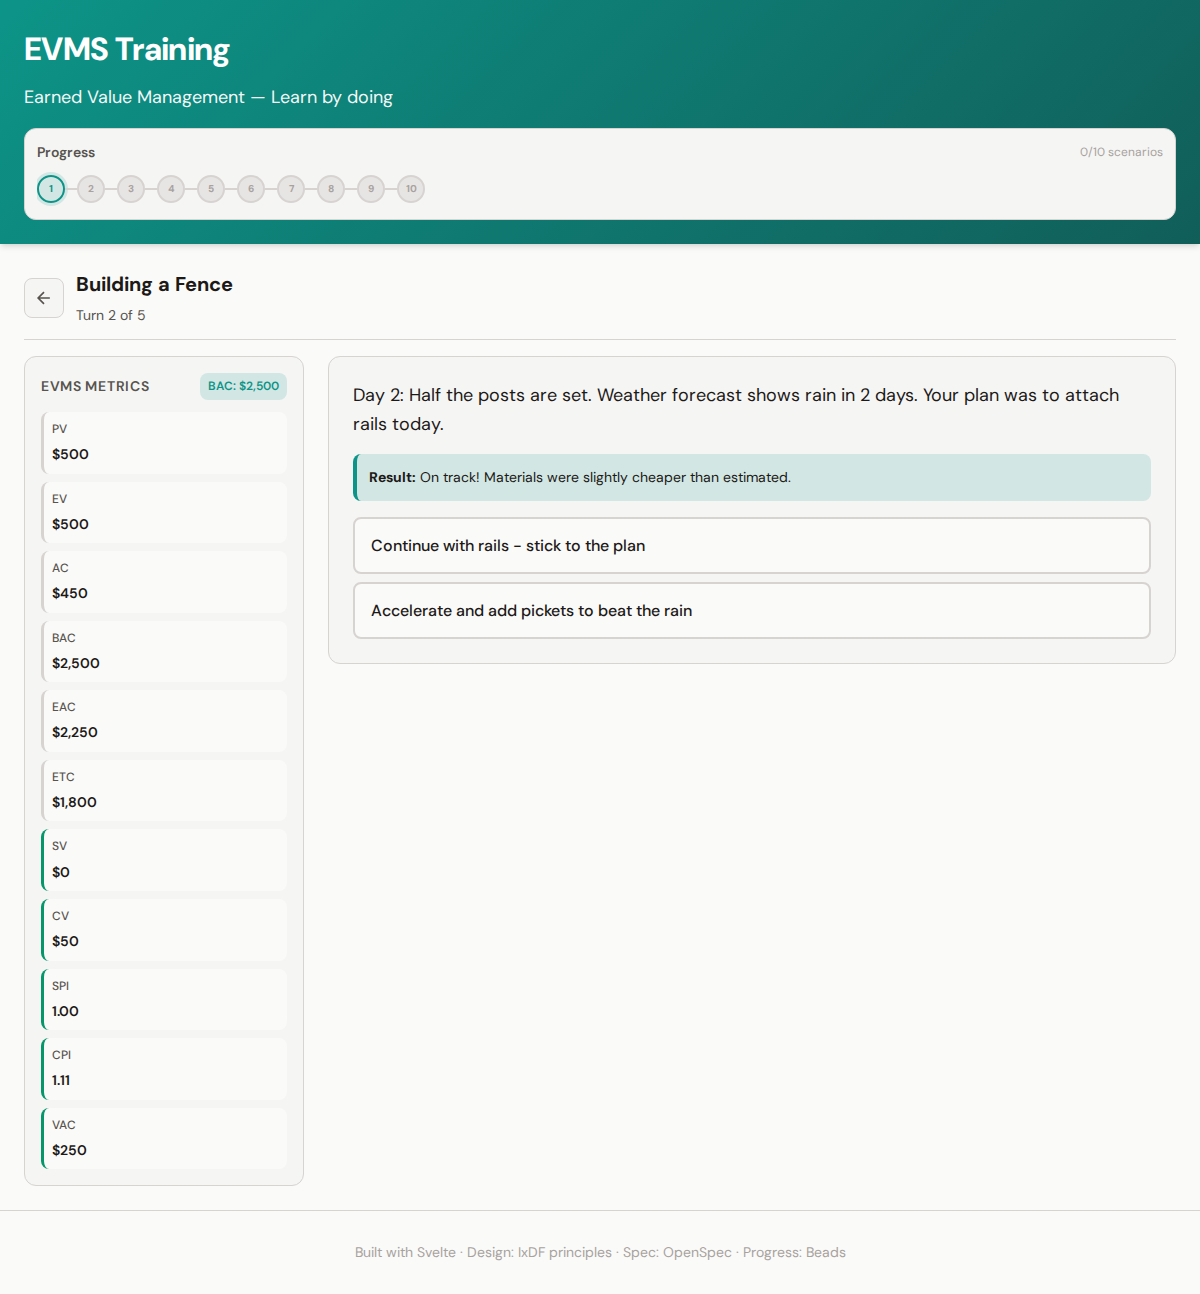
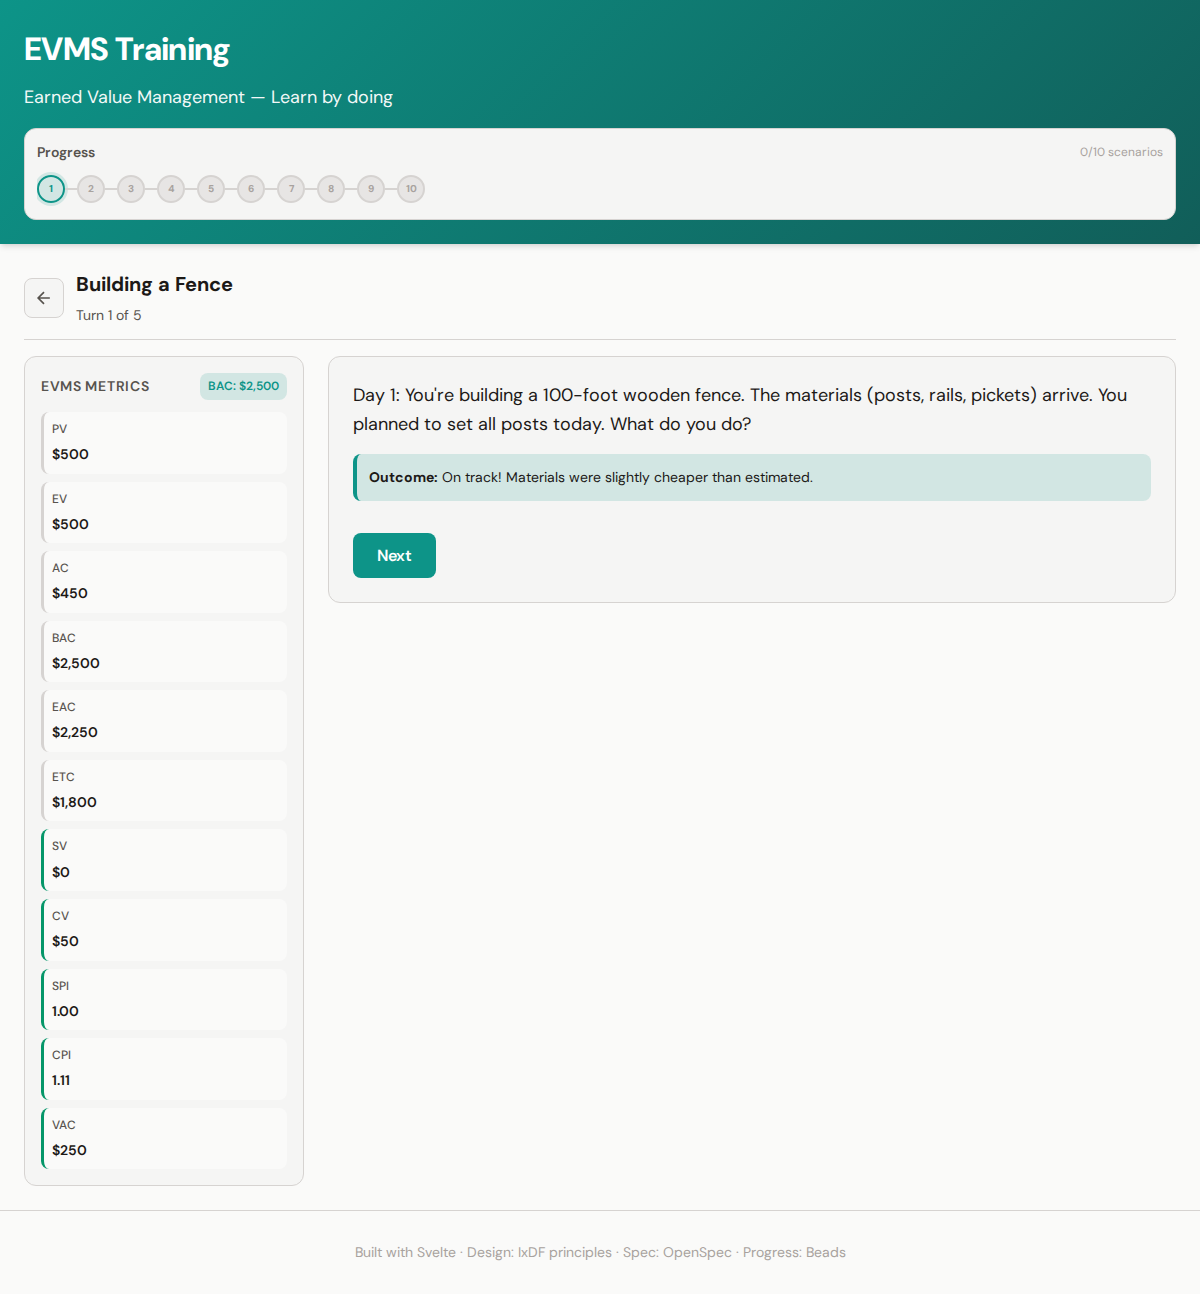
feat(gameplay): show outcome after choice, then Next to advance
Split game flow into selectChoice (apply EVMS deltas, show feedback)
and advanceAfterFeedback (clear feedback, increment turn). Scenario
completion and bead unlock run when leaving the final feedback step.
Persist awaitingAdvance for refresh-safe mid-turn state. Update
Playwright flows and screenshot capture for the two-step interaction.

Changed region(s): [[0.2775, 0.2782, 0.925, 0.4946], [0.0925, 0.2164, 0.1233, 0.2473]]

diff --git a/evms-training/tests/gameplay.spec.js b/evms-training/tests/gameplay.spec.js
@@ -69,20 +69,19 @@ test.describe('EVMS Training - Gameplay', () => {
 		await expect(page.getByRole('button', { name: /Rush through post setting/i })).toBeVisible();
 	});
 
-	test('clicking choice advances to next turn and shows feedback', async ({ page }) => {
+	test('after choice, outcome and Next appear; Next advances turn', async ({ page }) => {
 		await page.getByRole('button', { name: /Scenario: Building a Fence/i }).click();
 
-		// Click first choice
 		await page.getByRole('button', { name: /Set posts as planned/i }).click();
 
-		// Should show feedback
-		await expect(page.getByText(/Result:/)).toBeVisible();
+		await expect(page.getByText(/Outcome:/)).toBeVisible();
 		await expect(page.getByText(/On track!/)).toBeVisible();
+		await expect(page.getByText(/Turn 1 of 5/)).toBeVisible();
+		await expect(page.getByText(/Day 2:/)).not.toBeVisible();
 
-		// Turn should advance
+		await page.getByRole('button', { name: /Continue to next decision|Next/i }).click();
+
 		await expect(page.getByText(/Turn 2 of 5/)).toBeVisible();
-
-		// New narrative
 		await expect(page.getByText(/Day 2:/)).toBeVisible();
 	});
 
@@ -92,7 +91,7 @@ test.describe('EVMS Training - Gameplay', () => {
 		// Initially metrics may show $0 or values after first render
 		await expect(page.getByText('EVMS Metrics')).toBeVisible();
 
-		// Make a choice
+		// Make a choice (metrics update immediately)
 		await page.getByRole('button', { name: /Set posts as planned/i }).click();
 
 		// Metrics should show currency values (PV, EV, AC)
@@ -113,11 +112,15 @@ test.describe('EVMS Training - Gameplay', () => {
 	test('completing scenario 1 shows completion screen', async ({ page }) => {
 		await page.getByRole('button', { name: /Scenario: Building a Fence/i }).click();
 
-		// Complete all 5 turns
+		// Complete all 5 turns (choice then Next each turn)
 		for (let i = 0; i < 5; i++) {
-			// Click first available choice (usually the safer option)
-			const choiceBtn = page.getByRole('button', { name: /Set posts as planned|Continue with rails|Work in light rain|Double down|Use standard stain/i }).first();
+			const choiceBtn = page
+				.getByRole('button', {
+					name: /Set posts as planned|Continue with rails|Work in light rain|Double down|Use standard stain/i
+				})
+				.first();
 			await choiceBtn.click();
+			await page.getByRole('button', { name: /Continue to next decision|Next/i }).click();
 		}
 
 		// Should show scenario complete
@@ -129,11 +132,10 @@ test.describe('EVMS Training - Gameplay', () => {
 	test('completed scenario unlocks next and updates beads', async ({ page }) => {
 		await page.getByRole('button', { name: /Scenario: Building a Fence/i }).click();
 
-		// Complete scenario 1 - 5 turns
+		// Complete scenario 1 - 5 turns (choice + Next each)
 		for (let i = 0; i < 5; i++) {
-			const choiceBtns = page.locator('.choice-btn');
-			await choiceBtns.first().click();
-			// Wait for next turn or completion
+			await page.locator('.choice-btn').first().click();
+			await page.getByRole('button', { name: /Continue to next decision|Next/i }).click();
 			await page.waitForTimeout(300);
 		}
 
@@ -152,6 +154,7 @@ test.describe('EVMS Training - Gameplay', () => {
 		await page.getByRole('button', { name: /Scenario: Building a Fence/i }).click();
 		for (let i = 0; i < 5; i++) {
 			await page.locator('.choice-btn').first().click();
+			await page.getByRole('button', { name: /Continue to next decision|Next/i }).click();
 			await page.waitForTimeout(200);
 		}
 		await page.getByRole('button', { name: /Return to Scenarios/i }).click();

diff --git a/evms-training/src/lib/stores/gameStore.svelte.js b/evms-training/src/lib/stores/gameStore.svelte.js
@@ -34,6 +34,7 @@ export function createGameStore() {
 	let ac = $state(0);
 	let bac = $state(0);
 	let feedback = $state(null);
+	let awaitingAdvance = $state(false);
 	let choiceHistory = $state([]);
 
 	const saved = loadFromStorage();
@@ -44,7 +45,23 @@ export function createGameStore() {
 		ev = saved.ev ?? 0;
 		ac = saved.ac ?? 0;
 		bac = saved.bac ?? 0;
+		feedback = saved.feedback ?? null;
+		awaitingAdvance = saved.awaitingAdvance ?? false;
 		choiceHistory = saved.choiceHistory ?? [];
+	}
+
+	function persist() {
+		saveToStorage({
+			scenarioId,
+			turnIndex,
+			pv,
+			ev,
+			ac,
+			bac,
+			feedback,
+			awaitingAdvance,
+			choiceHistory
+		});
 	}
 
 	function initScenario(scenario) {
@@ -55,18 +72,28 @@ export function createGameStore() {
 		ac = 0;
 		bac = scenario.bac;
 		feedback = null;
+		awaitingAdvance = false;
 		choiceHistory = [];
-		saveToStorage({ scenarioId, turnIndex, pv, ev, ac, bac, choiceHistory });
+		persist();
 	}
 
-	function applyChoice(choice) {
+	function selectChoice(choice) {
+		if (awaitingAdvance) return;
 		pv += choice.pvDelta ?? 0;
 		ev += choice.evDelta ?? 0;
 		ac += choice.acDelta ?? 0;
 		feedback = choice.feedback ?? null;
 		choiceHistory = [...choiceHistory, { text: choice.text, turnIndex }];
+		awaitingAdvance = true;
+		persist();
+	}
+
+	function advanceAfterFeedback() {
+		if (!awaitingAdvance) return;
+		feedback = null;
+		awaitingAdvance = false;
 		turnIndex += 1;
-		saveToStorage({ scenarioId, turnIndex, pv, ev, ac, bac, choiceHistory });
+		persist();
 	}
 
 	function resetGame() {
@@ -77,6 +104,7 @@ export function createGameStore() {
 		ac = 0;
 		bac = 0;
 		feedback = null;
+		awaitingAdvance = false;
 		choiceHistory = [];
 		localStorage.removeItem(STORAGE_KEY);
 	}
@@ -105,6 +133,9 @@ export function createGameStore() {
 		get feedback() {
 			return feedback;
 		},
+		get awaitingAdvance() {
+			return awaitingAdvance;
+		},
 		get choiceHistory() {
 			return choiceHistory;
 		},
@@ -115,7 +146,8 @@ export function createGameStore() {
 			return scenarioId != null && turnIndex > 0;
 		},
 		initScenario,
-		applyChoice,
+		selectChoice,
+		advanceAfterFeedback,
 		resetGame,
 		loadGame: loadFromStorage
 	};

diff --git a/evms-training/src/components/ScenarioPlay.svelte b/evms-training/src/components/ScenarioPlay.svelte
@@ -9,8 +9,12 @@
 	const isLastTurn = $derived(scenario && gameStore.turnIndex >= scenario.turns.length);
 
 	function handleChoice(choice) {
+		gameStore.selectChoice(choice);
+	}
+
+	function handleNext() {
 		const wasLastTurn = gameStore.turnIndex >= scenario.turns.length - 1;
-		gameStore.applyChoice(choice);
+		gameStore.advanceAfterFeedback();
 		if (wasLastTurn) {
 			beadsStore.completeBead(scenarioId);
 		}
@@ -53,22 +57,33 @@
 					<div class="narrative-card">
 						<p class="narrative">{turn.narrative}</p>
 
-						{#if gameStore.feedback}
-							<div class="feedback">
-								<strong>Result:</strong> {gameStore.feedback}
+						{#if gameStore.awaitingAdvance}
+							{#if gameStore.feedback}
+								<div class="feedback">
+									<strong>Outcome:</strong> {gameStore.feedback}
+								</div>
+							{/if}
+							<button
+								type="button"
+								class="next-btn"
+								onclick={handleNext}
+								aria-label="Continue to next decision"
+							>
+								Next
+							</button>
+						{:else}
+							<div class="choices">
+								{#each turn.choices as choice}
+									<button
+										type="button"
+										class="choice-btn"
+										onclick={() => handleChoice(choice)}
+									>
+										{choice.text}
+									</button>
+								{/each}
 							</div>
 						{/if}
-
-						<div class="choices">
-							{#each turn.choices as choice}
-								<button
-									class="choice-btn"
-									onclick={() => handleChoice(choice)}
-								>
-									{choice.text}
-								</button>
-							{/each}
-						</div>
 					</div>
 				{/if}
 			</main>
@@ -187,6 +202,23 @@
 	.choice-btn:hover {
 		border-color: var(--accent);
 		background: var(--accent-muted);
+	}
+
+	.next-btn {
+		margin-top: var(--space-4);
+		padding: var(--space-3) var(--space-6);
+		background: var(--accent);
+		color: white;
+		border: none;
+		border-radius: var(--radius);
+		font-size: var(--text-base);
+		font-weight: 600;
+		cursor: pointer;
+		transition: background 0.2s;
+	}
+
+	.next-btn:hover {
+		background: var(--accent-hover);
 	}
 
 	.scenario-complete {

diff --git a/evms-training/tests/screenshots.spec.js b/evms-training/tests/screenshots.spec.js
@@ -39,7 +39,7 @@ test.describe('Screenshot capture', () => {
 			fullPage: true
 		});
 
-		// 3. After making a choice - feedback and metrics
+		// 3. After making a choice - outcome feedback and metrics
 		await page.getByRole('button', { name: /Set posts as planned/i }).click();
 		await page.waitForTimeout(500);
 		await page.screenshot({
@@ -47,9 +47,10 @@ test.describe('Screenshot capture', () => {
 			fullPage: true
 		});
 
-		// 4. Complete scenario 1
+		await page.getByRole('button', { name: /Continue to next decision|Next/i }).click();
 		for (let i = 0; i < 4; i++) {
 			await page.locator('.choice-btn').first().click();
+			await page.getByRole('button', { name: /Continue to next decision|Next/i }).click();
 			await page.waitForTimeout(300);
 		}
 		await page.screenshot({
